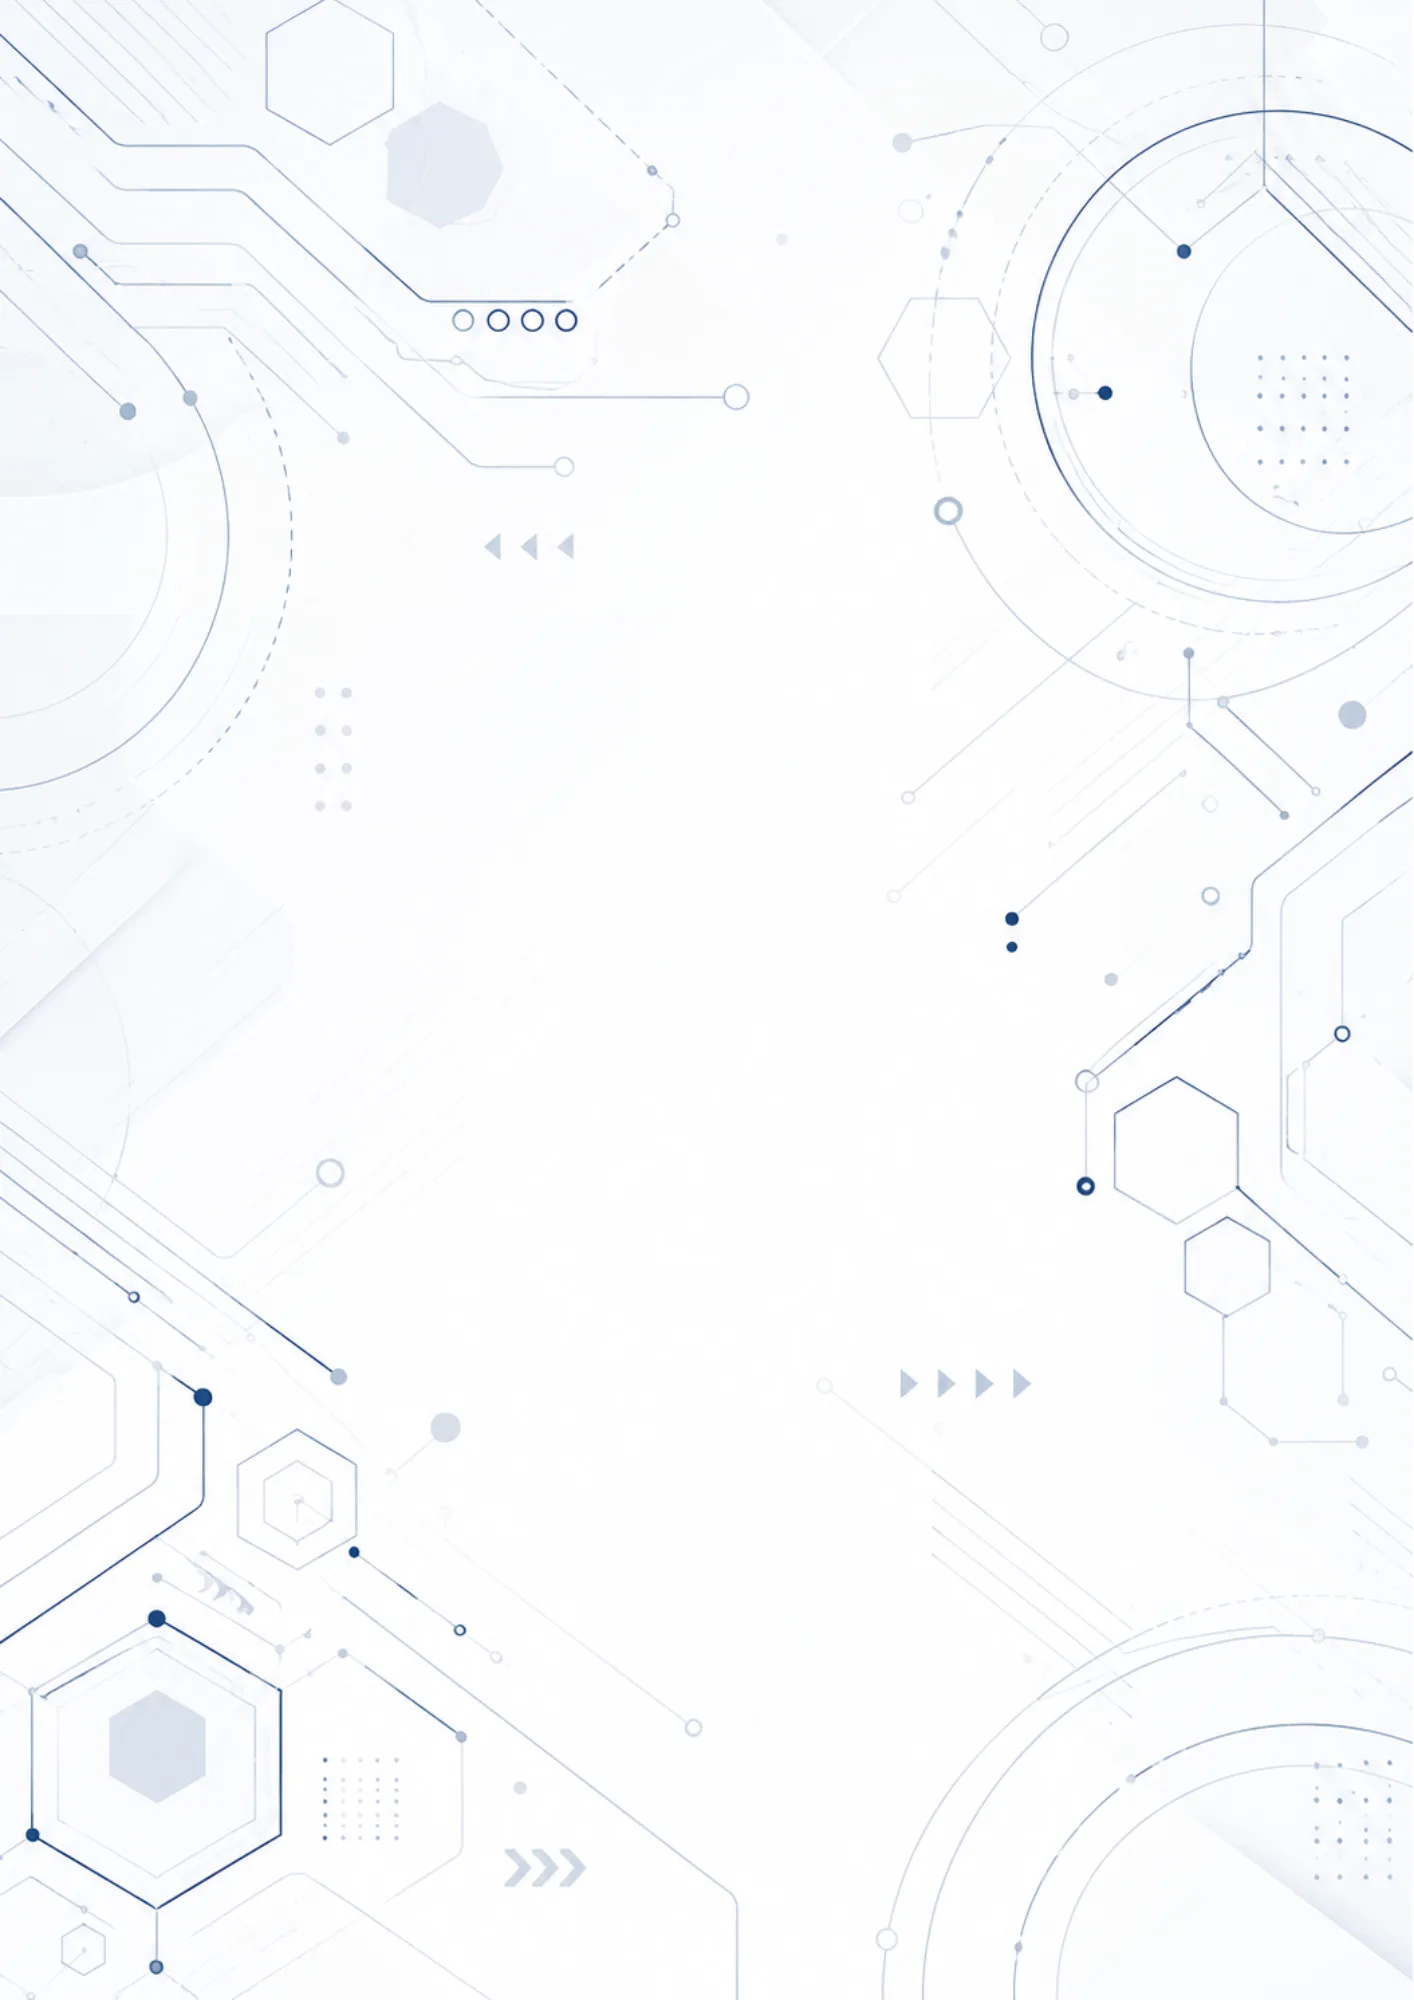
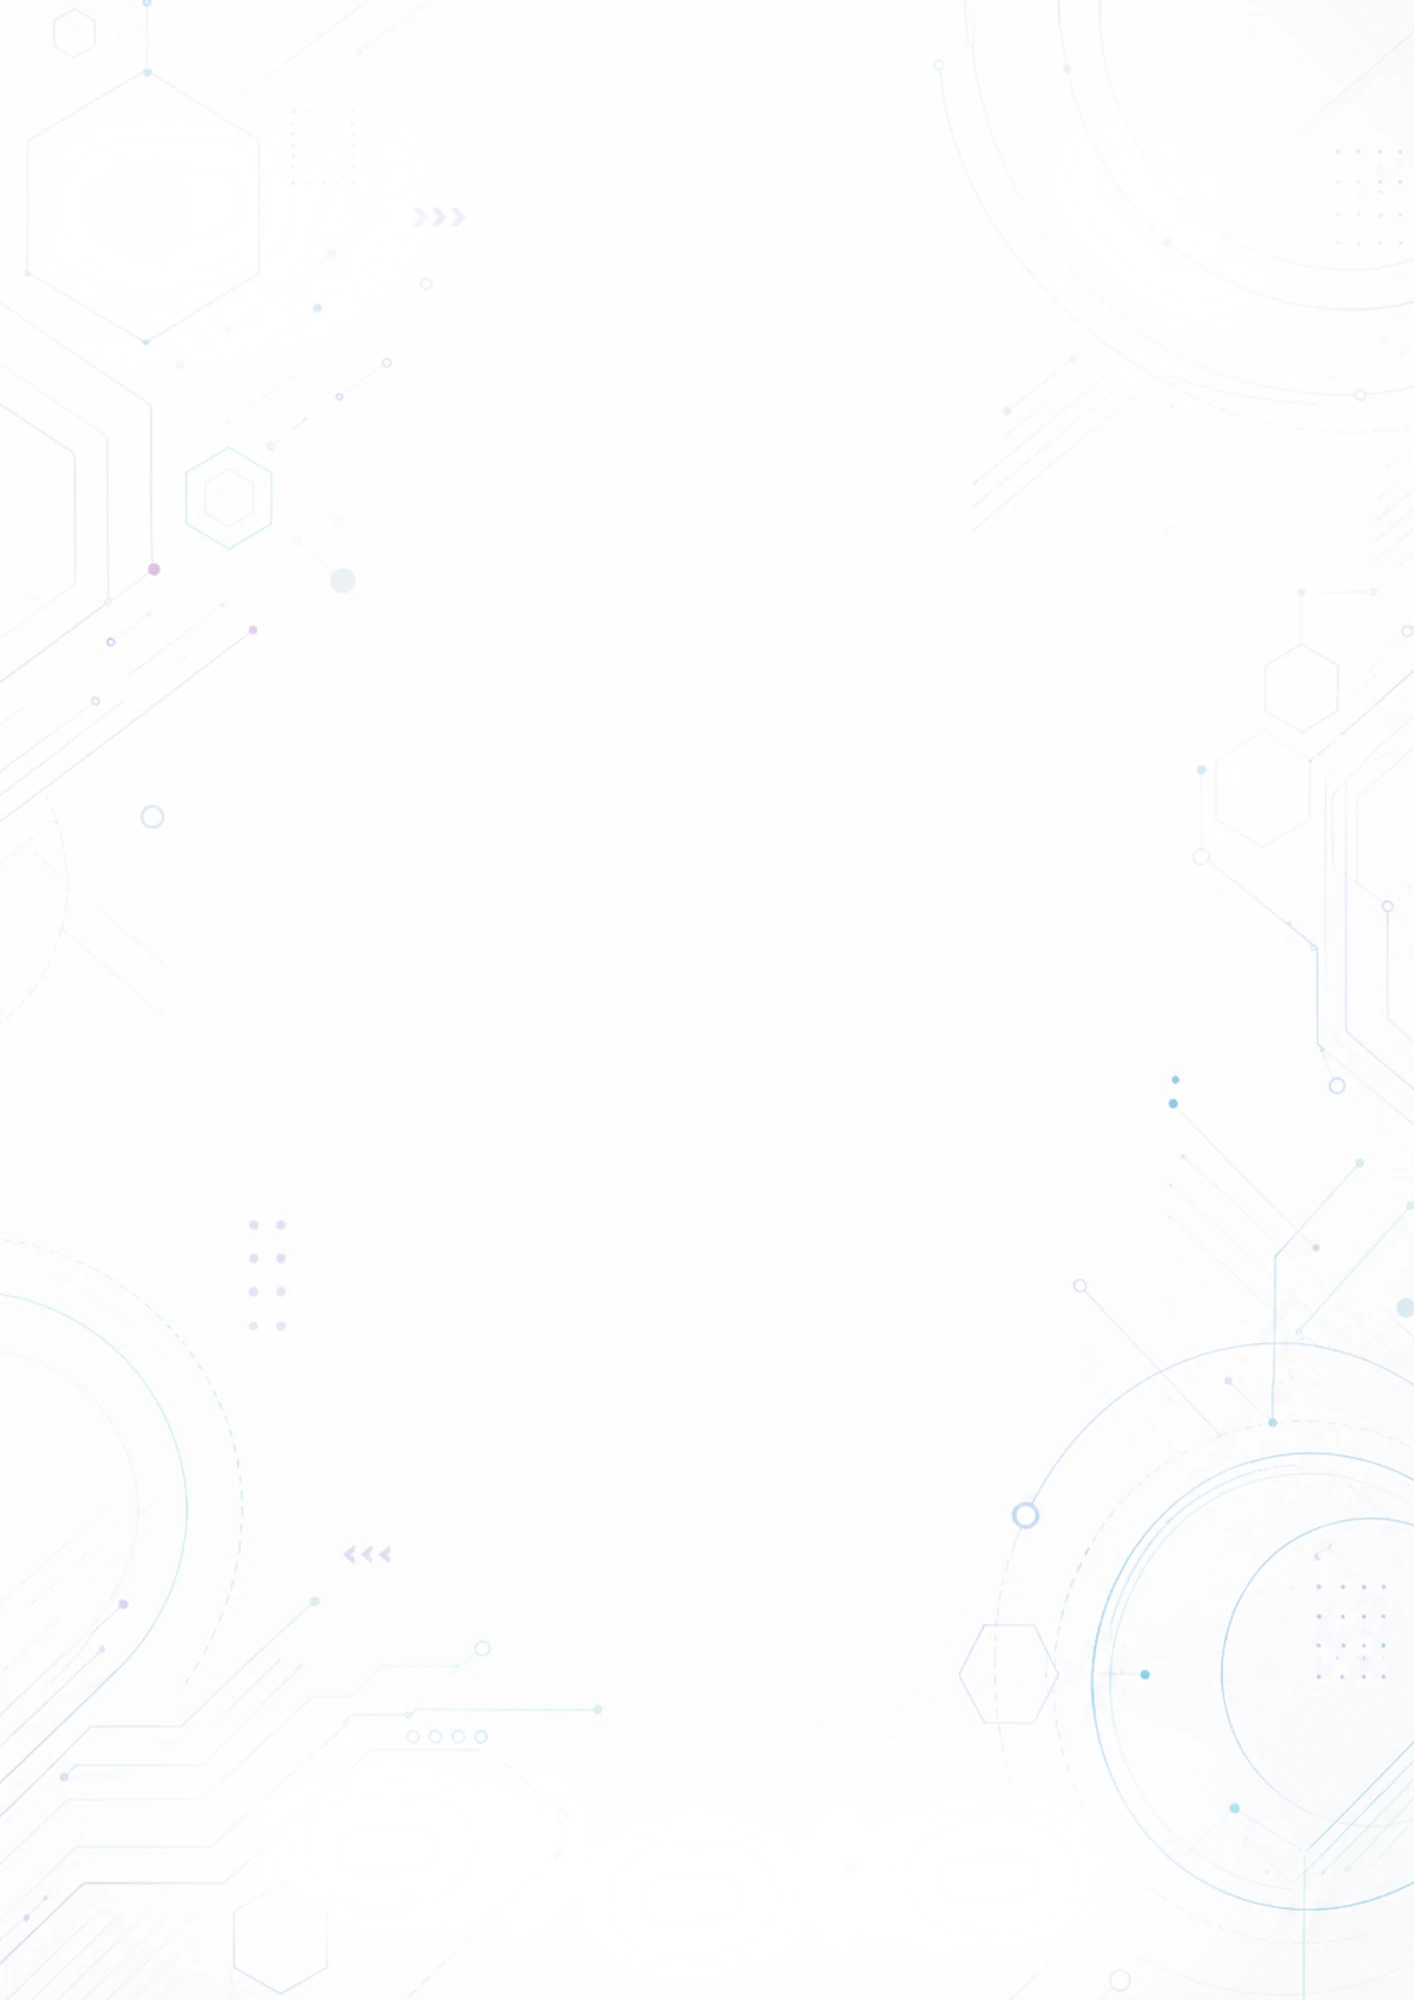
Regenerate course page tech background WebP from updated PNG
Convert the replaced course-page-tech-bg.png to a new compressed WebP
asset and bump the service worker cache to v201 so browsers load the
updated background instead of the cached version.

diff --git a/catalog-generator.html b/catalog-generator.html
@@ -14,7 +14,7 @@
   <script>
     if ("serviceWorker" in navigator) {
       window.addEventListener("load", () => {
-        navigator.serviceWorker.register("./sw.js?v=200").then(registration => registration.update());
+        navigator.serviceWorker.register("./sw.js?v=201").then(registration => registration.update());
       });
     }
   </script>

diff --git a/course-page.html b/course-page.html
@@ -6162,7 +6162,7 @@ document.addEventListener("click", function(event) {
 <script>
   if ("serviceWorker" in navigator) {
     window.addEventListener("load", () => {
-      navigator.serviceWorker.register("./sw.js?v=200").then(registration => registration.update());
+      navigator.serviceWorker.register("./sw.js?v=201").then(registration => registration.update());
     });
   }
 </script>

diff --git a/index.html b/index.html
@@ -134,7 +134,7 @@ body {
 <script>
   if ("serviceWorker" in navigator) {
     window.addEventListener("load", () => {
-      navigator.serviceWorker.register("./sw.js?v=200").then(registration => registration.update());
+      navigator.serviceWorker.register("./sw.js?v=201").then(registration => registration.update());
     });
   }
 </script>

diff --git a/opening.html b/opening.html
@@ -370,7 +370,7 @@
   <script>
     if ("serviceWorker" in navigator) {
       window.addEventListener("load", () => {
-        navigator.serviceWorker.register("./sw.js?v=200").then(registration => registration.update());
+        navigator.serviceWorker.register("./sw.js?v=201").then(registration => registration.update());
       });
     }
   </script>

diff --git a/sw.js b/sw.js
@@ -1,4 +1,4 @@
-const CACHE_NAME = "summer-catalog-v2026-06-07-v200";
+const CACHE_NAME = "summer-catalog-v2026-06-07-v201";
 const ASSETS = [
   "./",
   "./sw.js",

diff --git a/tashpaz/catalogtashpaz.html b/tashpaz/catalogtashpaz.html
@@ -212,7 +212,7 @@ buildNav(); render(0);
 <script>
   if ("serviceWorker" in navigator) {
     window.addEventListener("load", () => {
-      navigator.serviceWorker.register("../sw.js?v=200").then(registration => registration.update());
+      navigator.serviceWorker.register("../sw.js?v=201").then(registration => registration.update());
     });
   }
 </script>

diff --git a/tour.html b/tour.html
@@ -472,7 +472,7 @@ h1{
 <script>
   if ("serviceWorker" in navigator) {
     window.addEventListener("load", () => {
-      navigator.serviceWorker.register("./sw.js?v=200").then(registration => registration.update());
+      navigator.serviceWorker.register("./sw.js?v=201").then(registration => registration.update());
     });
   }
 </script>

diff --git a/workshops.html b/workshops.html
@@ -3700,7 +3700,7 @@ function chunkActivities(items, size) {
 
     if ("serviceWorker" in navigator) {
       window.addEventListener("load", () => {
-        navigator.serviceWorker.register("./sw.js?v=200").then(registration => registration.update());
+        navigator.serviceWorker.register("./sw.js?v=201").then(registration => registration.update());
       });
     }
 